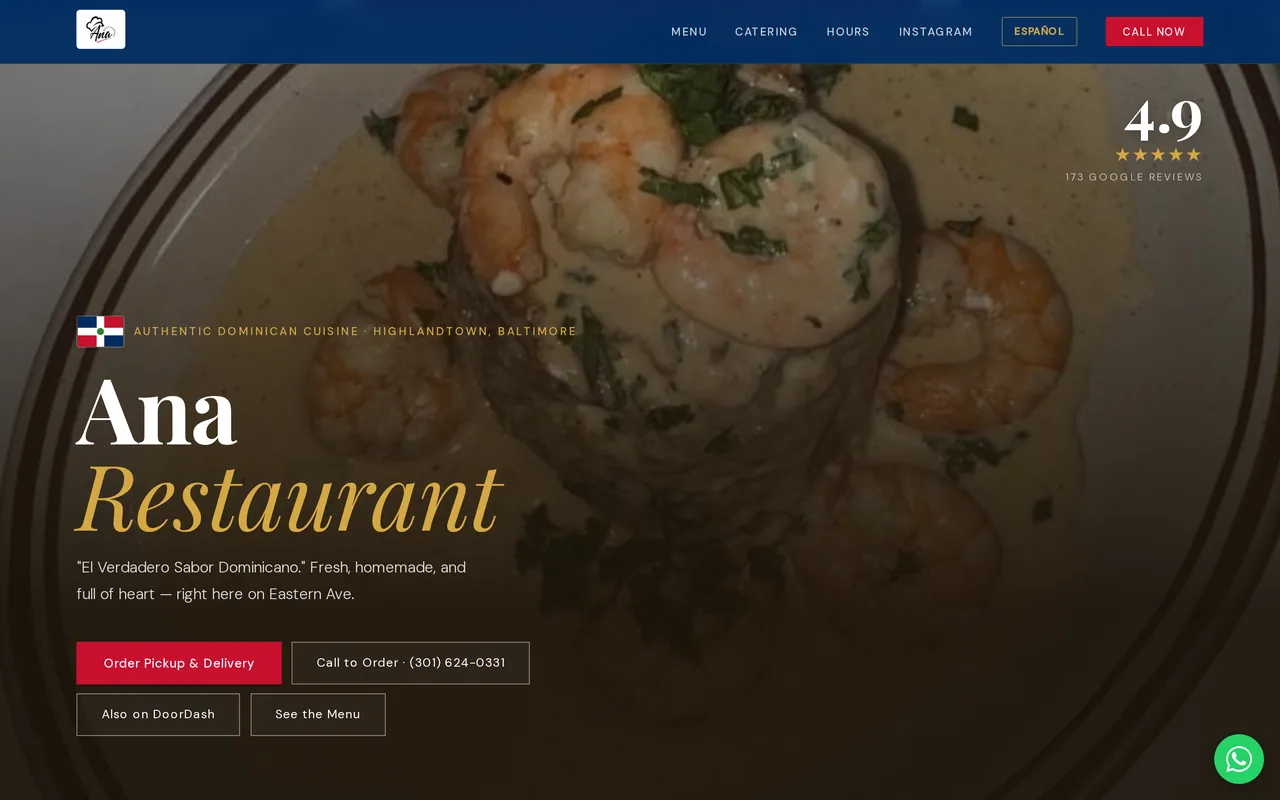
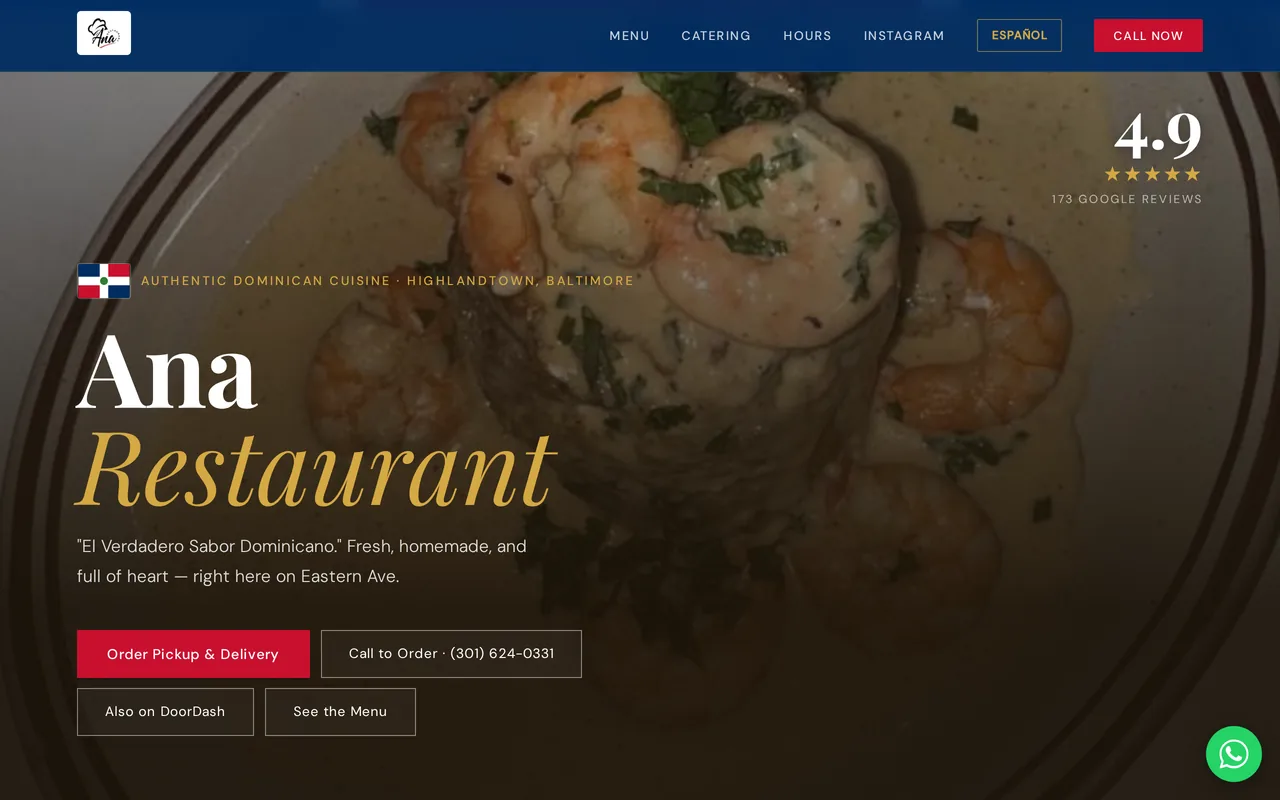
Fresh screenshots of all 8 client sites; reorder to Brush & Soul, Collin, Christa first
- Re-captured every screenshot from live sites (Roxane, Collin, and all others updated)
- Andrew's shot re-taken with preorder popup dismissed (was darkening the capture)
- Case studies: Brush & Soul, Collin, Christa, LLF, Ana; more-grid: Roxane, Andrew, Ventures
- Homepage hero rotation + script.js URL map resynced (Brush & Soul first)

diff --git a/work.html b/work.html
@@ -76,29 +76,29 @@
   <!-- Case studies -->
   <div class="case-studies">
 
-    <!-- Christa -->
+    <!-- Brush & Soul -->
     <div class="case reveal">
       <div class="cs-media">
-        <a class="cs-shot" href="https://liquid1188.github.io/christa-dalmazio/" target="_blank" rel="noopener" aria-label="Open Christa Dalmazio in a new tab">
-          <div class="port-chrome"><div class="p-dots"><div class="p-dot r"></div><div class="p-dot y"></div><div class="p-dot g"></div></div><div class="p-url">liquid1188.github.io/christa-dalmazio</div></div>
-          <img class="cs-img" src="screenshots/christa.webp" alt="Christa Dalmazio soprano website homepage" width="1280" height="800" loading="lazy" decoding="async">
+        <a class="cs-shot" href="https://brushandsoulstudio.com/" target="_blank" rel="noopener" aria-label="Open Brush & Soul Studio in a new tab">
+          <div class="port-chrome"><div class="p-dots"><div class="p-dot r"></div><div class="p-dot y"></div><div class="p-dot g"></div></div><div class="p-url">brushandsoulstudio.com</div></div>
+          <img class="cs-img" src="screenshots/brushsoul.webp" alt="Brush &amp; Soul Studio storefront homepage" width="1280" height="800" loading="lazy" decoding="async">
           <div class="cs-view"><span>View live ↗</span></div>
         </a>
       </div>
       <div class="cs-body">
-        <div class="cs-eyebrow">Classical Musician · New York</div>
-        <div class="cs-title">A multi-page home for a soprano&rsquo;s whole vocation.</div>
+        <div class="cs-eyebrow">Artist Storefront · Shopify</div>
+        <div class="cs-title">A gallery-grade storefront built to sell.</div>
         <div class="cs-blocks">
-          <div class="cs-block"><div class="cs-k">Brief</div><div class="cs-v">A doctoral soprano and conductor with a wide-ranging career — opera, sacred music, directing, teaching, weddings — and no single place that held all of it.</div></div>
-          <div class="cs-block"><div class="cs-k">Built</div><div class="cs-v">A hand-coded, multi-page site with its own rose-window identity: dedicated pages for performing, directing, teaching, weddings, and a gallery, each a real page with its own focus — plus booking inquiries.</div></div>
-          <div class="cs-block"><div class="cs-k">Result</div><div class="cs-v">One elegant home for her music where a presenter, choir, or couple can go straight to what they need — and book.</div></div>
+          <div class="cs-block"><div class="cs-k">Brief</div><div class="cs-v">Caroline Likoudis needed somewhere to actually sell original paintings and prints — not just display them — without a stock template fighting her work.</div></div>
+          <div class="cs-block"><div class="cs-k">Built</div><div class="cs-v">A full Shopify storefront with a hand-built catalog, a commissions inquiry flow, and a warm, gallery-style browsing experience designed around the art itself.</div></div>
+          <div class="cs-block"><div class="cs-k">Result</div><div class="cs-v">A live storefront where every painting and print is shoppable, with a commissions path that turns browsers into buyers.</div></div>
         </div>
         <div class="cs-pills">
-          <span class="cs-pill">Multi-page site</span>
-          <span class="cs-pill green">Custom rose-window identity</span>
-          <span class="cs-pill">Booking inquiries</span>
+          <span class="cs-pill">Full Shopify storefront</span>
+          <span class="cs-pill green">Shoppable catalog</span>
+          <span class="cs-pill">Commissions flow</span>
         </div>
-        <a class="cs-link" href="https://liquid1188.github.io/christa-dalmazio/" target="_blank" rel="noopener">View live site <svg viewBox="0 0 24 24"><path d="M18 13v6a2 2 0 01-2 2H5a2 2 0 01-2-2V8a2 2 0 012-2h6"/><polyline points="15 3 21 3 21 9"/><line x1="10" y1="14" x2="21" y2="3"/></svg></a>
+        <a class="cs-link" href="https://brushandsoulstudio.com/" target="_blank" rel="noopener">View live site <svg viewBox="0 0 24 24"><path d="M18 13v6a2 2 0 01-2 2H5a2 2 0 01-2-2V8a2 2 0 012-2h6"/><polyline points="15 3 21 3 21 9"/><line x1="10" y1="14" x2="21" y2="3"/></svg></a>
       </div>
     </div>
 
@@ -128,29 +128,29 @@
       </div>
     </div>
 
-    <!-- Brush & Soul -->
+    <!-- Christa -->
     <div class="case reveal">
       <div class="cs-media">
-        <a class="cs-shot" href="https://brushandsoulstudio.com/" target="_blank" rel="noopener" aria-label="Open Brush & Soul Studio in a new tab">
-          <div class="port-chrome"><div class="p-dots"><div class="p-dot r"></div><div class="p-dot y"></div><div class="p-dot g"></div></div><div class="p-url">brushandsoulstudio.com</div></div>
-          <img class="cs-img" src="screenshots/brushsoul.webp" alt="Brush &amp; Soul Studio storefront homepage" width="1280" height="800" loading="lazy" decoding="async">
+        <a class="cs-shot" href="https://liquid1188.github.io/christa-dalmazio/" target="_blank" rel="noopener" aria-label="Open Christa Dalmazio in a new tab">
+          <div class="port-chrome"><div class="p-dots"><div class="p-dot r"></div><div class="p-dot y"></div><div class="p-dot g"></div></div><div class="p-url">liquid1188.github.io/christa-dalmazio</div></div>
+          <img class="cs-img" src="screenshots/christa.webp" alt="Christa Dalmazio soprano website homepage" width="1280" height="800" loading="lazy" decoding="async">
           <div class="cs-view"><span>View live ↗</span></div>
         </a>
       </div>
       <div class="cs-body">
-        <div class="cs-eyebrow">Artist Storefront · Shopify</div>
-        <div class="cs-title">A gallery-grade storefront built to sell.</div>
+        <div class="cs-eyebrow">Classical Musician · New York</div>
+        <div class="cs-title">A multi-page home for a soprano&rsquo;s whole vocation.</div>
         <div class="cs-blocks">
-          <div class="cs-block"><div class="cs-k">Brief</div><div class="cs-v">Caroline Likoudis needed somewhere to actually sell original paintings and prints — not just display them — without a stock template fighting her work.</div></div>
-          <div class="cs-block"><div class="cs-k">Built</div><div class="cs-v">A full Shopify storefront with a hand-built catalog, a commissions inquiry flow, and a warm, gallery-style browsing experience designed around the art itself.</div></div>
-          <div class="cs-block"><div class="cs-k">Result</div><div class="cs-v">A live storefront where every painting and print is shoppable, with a commissions path that turns browsers into buyers.</div></div>
+          <div class="cs-block"><div class="cs-k">Brief</div><div class="cs-v">A doctoral soprano and conductor with a wide-ranging career — opera, sacred music, directing, teaching, weddings — and no single place that held all of it.</div></div>
+          <div class="cs-block"><div class="cs-k">Built</div><div class="cs-v">A hand-coded, multi-page site with its own rose-window identity: dedicated pages for performing, directing, teaching, weddings, and a gallery, each a real page with its own focus — plus booking inquiries.</div></div>
+          <div class="cs-block"><div class="cs-k">Result</div><div class="cs-v">One elegant home for her music where a presenter, choir, or couple can go straight to what they need — and book.</div></div>
         </div>
         <div class="cs-pills">
-          <span class="cs-pill">Full Shopify storefront</span>
-          <span class="cs-pill green">Shoppable catalog</span>
-          <span class="cs-pill">Commissions flow</span>
+          <span class="cs-pill">Multi-page site</span>
+          <span class="cs-pill green">Custom rose-window identity</span>
+          <span class="cs-pill">Booking inquiries</span>
         </div>
-        <a class="cs-link" href="https://brushandsoulstudio.com/" target="_blank" rel="noopener">View live site <svg viewBox="0 0 24 24"><path d="M18 13v6a2 2 0 01-2 2H5a2 2 0 01-2-2V8a2 2 0 012-2h6"/><polyline points="15 3 21 3 21 9"/><line x1="10" y1="14" x2="21" y2="3"/></svg></a>
+        <a class="cs-link" href="https://liquid1188.github.io/christa-dalmazio/" target="_blank" rel="noopener">View live site <svg viewBox="0 0 24 24"><path d="M18 13v6a2 2 0 01-2 2H5a2 2 0 01-2-2V8a2 2 0 012-2h6"/><polyline points="15 3 21 3 21 9"/><line x1="10" y1="14" x2="21" y2="3"/></svg></a>
       </div>
     </div>
 
@@ -228,16 +228,6 @@
       <a class="more-link" href="https://liquid1188.github.io/roxane-salonen/" target="_blank" rel="noopener">View live →</a>
     </article>
     <article class="more-card reveal" style="--rd:.08s">
-      <a class="more-shot" href="https://liquid1188.github.io/likoudis-ventures/" target="_blank" rel="noopener" aria-label="Open Likoudis Ventures in a new tab">
-        <img class="more-img" src="screenshots/ventures.webp" alt="Likoudis Ventures website homepage" width="1280" height="800" loading="lazy" decoding="async">
-        <div class="more-view"><span>View ↗</span></div>
-      </a>
-      <div class="more-tag">Brand Site · Next.js</div>
-      <div class="more-name">Likoudis Ventures</div>
-      <div class="more-desc">A family house of enterprises under one editorial brand — considered typography, built and shipped on Vercel.</div>
-      <a class="more-link" href="https://liquid1188.github.io/likoudis-ventures/" target="_blank" rel="noopener">View live →</a>
-    </article>
-    <article class="more-card reveal" style="--rd:.16s">
       <a class="more-shot" href="https://andrewlikoudis.com/" target="_blank" rel="noopener" aria-label="Open Andrew Likoudis in a new tab">
         <img class="more-img" src="screenshots/andrew.webp" alt="Andrew Likoudis website homepage" width="1280" height="800" loading="lazy" decoding="async">
         <div class="more-view"><span>View ↗</span></div>
@@ -246,6 +236,16 @@
       <div class="more-name">Andrew Likoudis</div>
       <div class="more-desc">Author and scholar portfolio — writing, speaking, media, and press — built to drive speaking and publishing inquiries.</div>
       <a class="more-link" href="https://andrewlikoudis.com/" target="_blank" rel="noopener">View live →</a>
+    </article>
+    <article class="more-card reveal" style="--rd:.16s">
+      <a class="more-shot" href="https://liquid1188.github.io/likoudis-ventures/" target="_blank" rel="noopener" aria-label="Open Likoudis Ventures in a new tab">
+        <img class="more-img" src="screenshots/ventures.webp" alt="Likoudis Ventures website homepage" width="1280" height="800" loading="lazy" decoding="async">
+        <div class="more-view"><span>View ↗</span></div>
+      </a>
+      <div class="more-tag">Brand Site · Next.js</div>
+      <div class="more-name">Likoudis Ventures</div>
+      <div class="more-desc">A family house of enterprises under one editorial brand — considered typography, built and shipped on Vercel.</div>
+      <a class="more-link" href="https://liquid1188.github.io/likoudis-ventures/" target="_blank" rel="noopener">View live →</a>
     </article>
   </div>
 </section>

diff --git a/index.html b/index.html
@@ -73,20 +73,20 @@
     </div>
   </div>
   <div class="hero-visual">
-    <a class="browser" id="liveBrowser" href="https://liquid1188.github.io/christa-dalmazio/" target="_blank" rel="noopener" aria-label="View live client work — opens the site in a new tab">
+    <a class="browser" id="liveBrowser" href="https://brushandsoulstudio.com/" target="_blank" rel="noopener" aria-label="View live client work — opens the site in a new tab">
       <div class="browser-chrome">
         <div class="b-dots"><div class="b-dot r"></div><div class="b-dot y"></div><div class="b-dot g"></div></div>
-        <div class="b-urlbar"><span id="b-url">liquid1188.github.io/christa-dalmazio</span><span class="b-caret" aria-hidden="true"></span></div>
+        <div class="b-urlbar"><span id="b-url">brushandsoulstudio.com</span><span class="b-caret" aria-hidden="true"></span></div>
       </div>
       <div class="browser-viewport">
         <div class="live-shots" id="liveShots">
-          <img class="on" src="screenshots/christa.webp" alt="Christa Dalmazio — live client site" width="1280" height="800" fetchpriority="high">
+          <img class="on" src="screenshots/brushsoul.webp" alt="Brush &amp; Soul Studio — live client site" width="1280" height="800" fetchpriority="high">
           <img src="screenshots/collin.webp" alt="Collin Westerlund — live client site" width="1280" height="800" loading="lazy">
-          <img src="screenshots/brushsoul.webp" alt="Brush &amp; Soul Studio — live client site" width="1280" height="800" loading="lazy">
-          <img src="screenshots/roxane.webp" alt="Roxane Salonen — live client site" width="1280" height="800" loading="lazy">
-          <img src="screenshots/ventures.webp" alt="Likoudis Ventures — live client site" width="1280" height="800" loading="lazy">
+          <img src="screenshots/christa.webp" alt="Christa Dalmazio — live client site" width="1280" height="800" loading="lazy">
           <img src="screenshots/llf.webp" alt="Likoudis Legacy Foundation — live client site" width="1280" height="800" loading="lazy">
           <img src="screenshots/andrew.webp" alt="Andrew Likoudis — live client site" width="1280" height="800" loading="lazy">
+          <img src="screenshots/roxane.webp" alt="Roxane Salonen — live client site" width="1280" height="800" loading="lazy">
+          <img src="screenshots/ventures.webp" alt="Likoudis Ventures — live client site" width="1280" height="800" loading="lazy">
           <img src="screenshots/ana.webp" alt="Ana Restaurant — live client site" width="1280" height="800" loading="lazy">
         </div>
         <div class="live-tag">Live client work ↗</div>

diff --git a/script.js b/script.js
@@ -227,13 +227,13 @@ function handleSubmit(e){
       dotsWrap=document.getElementById('liveDots'),
       imgs=[].slice.call(shots.querySelectorAll('img'));
   var data=[
-    ['https://liquid1188.github.io/christa-dalmazio/','liquid1188.github.io/christa-dalmazio'],
-    ['https://liquid1188.github.io/collin-westerlund-site/','liquid1188.github.io/collin-westerlund-site'],
     ['https://brushandsoulstudio.com/','brushandsoulstudio.com'],
-    ['https://liquid1188.github.io/roxane-salonen/','liquid1188.github.io/roxane-salonen'],
-    ['https://liquid1188.github.io/likoudis-ventures/','liquid1188.github.io/likoudis-ventures'],
+    ['https://liquid1188.github.io/collin-westerlund-site/','liquid1188.github.io/collin-westerlund-site'],
+    ['https://liquid1188.github.io/christa-dalmazio/','liquid1188.github.io/christa-dalmazio'],
     ['https://likoudislegacy.com/','likoudislegacy.com'],
     ['https://andrewlikoudis.com/','andrewlikoudis.com'],
+    ['https://liquid1188.github.io/roxane-salonen/','liquid1188.github.io/roxane-salonen'],
+    ['https://liquid1188.github.io/likoudis-ventures/','liquid1188.github.io/likoudis-ventures'],
     ['https://liquid1188.github.io/ana-restaurant/','liquid1188.github.io/ana-restaurant']
   ];
   if(data.length>1) data.forEach(function(_,k){var s=document.createElement('span');if(k===0)s.className='on';dotsWrap.appendChild(s);});
